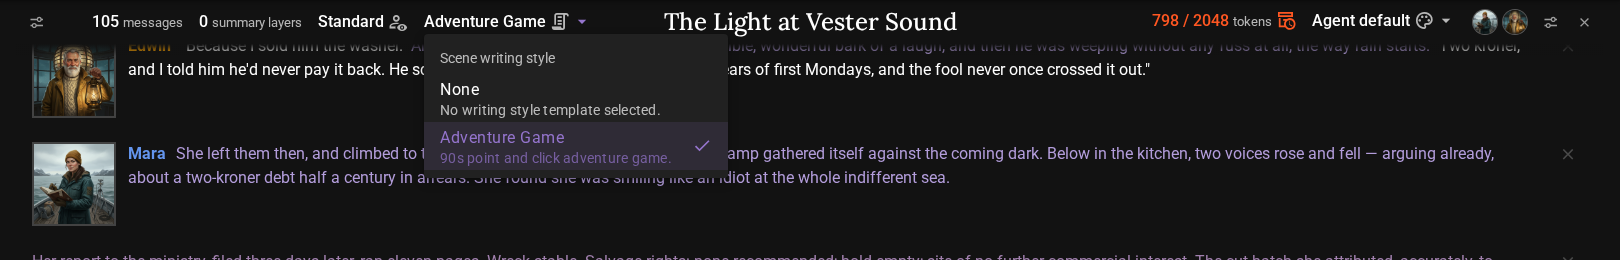
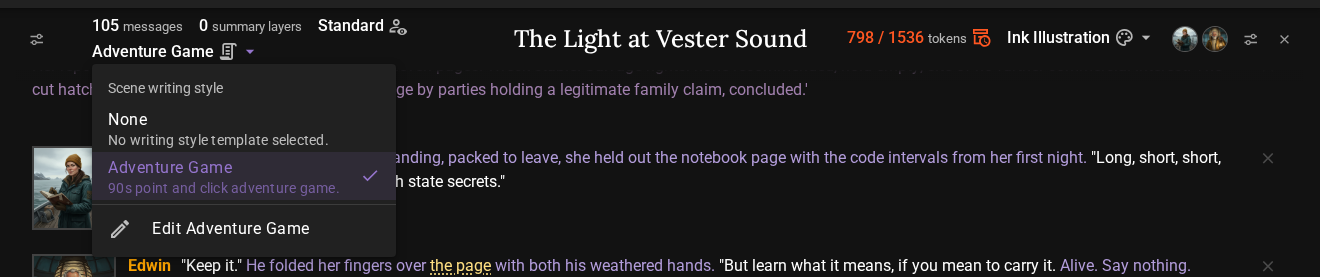
Scene header: Edit {name} entry in the writing style and visual style menus (#830)
* feat(scene-header): add Edit {name} entry to the writing style and visual style menus

* docs(scene-header): describe the Edit entry and retake the styles menu screenshot

* fix(scene-header): keep items from showing below the sticky Edit entry, resolve the option once, test the divider

diff --git a/talemate_frontend/tests/unit/sceneHeaderWidgets.spec.js b/talemate_frontend/tests/unit/sceneHeaderWidgets.spec.js
@@ -83,6 +83,7 @@ const Menu = defineComponent({
         ]);
     },
 });
+const Divider = defineComponent({ setup: () => () => h('hr', { class: 'divider' }) });
 const ListItem = defineComponent({
     props: { title: String },
     emits: ['click'],
@@ -133,6 +134,7 @@ function mountApp(root, injections = {}, vuetify = DARK) {
     for (const [key, value] of Object.entries(provided)) app.provide(key, value);
     for (const name of ['VList', 'VListSubheader', 'VCard', 'VCardText', 'VChip', 'VIcon', 'VCheckbox', 'VCheckboxBtn']) app.component(name, Container);
     app.component('VTooltip', Tooltip);
+    app.component('VDivider', Divider);
     app.component('VMenu', Menu);
     app.component('VListItem', ListItem);
     app.component('VBtn', Button);
@@ -501,11 +503,12 @@ describe('the header style select', () => {
         },
     };
 
-    function mountSelect(current) {
+    function mountSelect(current, { id = 'writing_style', data = 'writing_style_template', source = templates, opened = vi.fn() } = {}) {
         const sent = [];
-        const entry = resolveSlotItems(['writing_style'], { scene: { name: 'x', data: { writing_style_template: current } }, templates })[0];
+        const entry = resolveSlotItems([id], { scene: { name: 'x', data: { [data]: current } }, templates: source })[0];
         mountApp(defineComponent({ setup: () => () => h(HeaderTemplateSelect, { item: entry }) }), {
             getWebsocket: () => ({ send: (frame) => sent.push(JSON.parse(frame)) }),
+            openWorldStateManager: opened,
         });
         return sent;
     }
@@ -543,9 +546,9 @@ describe('the header style select', () => {
     it('lists the templates of the settings page and marks the current one', async () => {
         mountSelect('g__cozy');
         const items = await open();
-        expect(items.map((item) => item.textContent.trim())).toEqual(['None', 'Noir', 'Cozy']);
-        expect(items.map((item) => [item.getAttribute('role'), item.getAttribute('aria-checked')]))
-            .toEqual([['menuitemradio', 'false'], ['menuitemradio', 'false'], ['menuitemradio', 'true']]);
+        const choices = items.filter((item) => item.getAttribute('role') === 'menuitemradio');
+        expect(choices.map((item) => item.textContent.trim())).toEqual(['None', 'Noir', 'Cozy']);
+        expect(choices.map((item) => item.getAttribute('aria-checked'))).toEqual(['false', 'false', 'true']);
     });
 
     it('sends only the style setting for a new pick, and nothing for the current one', async () => {
@@ -559,5 +562,71 @@ describe('the header style select', () => {
             { type: 'world_state_manager', action: 'update_scene_settings', writing_style_template: 'g__cozy' },
             { type: 'world_state_manager', action: 'update_scene_settings', writing_style_template: null },
         ]);
+    });
+
+    describe('the edit entry', () => {
+        const visualTemplates = {
+            by_type: {
+                visual_style: {
+                    ink: { group: 'g', uid: 'ink', name: 'Ink Wash', description: 'Brush.', visual_type: 'STYLE' },
+                },
+            },
+        };
+        const visual = { id: 'visual_style', data: 'visual_style_template', source: visualTemplates };
+
+        it('follows the choices behind a divider, named for the selected template, and is not a radio item', async () => {
+            mountSelect('g__noir');
+            const items = await open();
+            const entry = items[items.length - 1];
+            expect(entry.textContent.trim()).toBe('Edit Noir');
+            expect(entry.getAttribute('role')).toBe('menuitem');
+            expect(entry.hasAttribute('aria-checked')).toBe(false);
+            expect(entry.getAttribute('prepend-icon')).toBe('mdi-pencil-outline');
+            expect(entry.previousElementSibling.classList.contains('divider')).toBe(true);
+            expect(entry.closest('.scene-header-select__edit')).not.toBeNull();
+            expect(host.querySelectorAll('.menu-content [role="menuitemradio"]')).toHaveLength(3);
+        });
+
+        it('is the last entry of a menu with a long list, once', async () => {
+            const many = Object.fromEntries(Array.from({ length: 30 }, (_, i) => {
+                const uid = `s${String(i).padStart(2, '0')}`;
+                return [uid, { group: 'g', uid, name: `Style ${i}`, description: '', visual_type: 'STYLE' }];
+            }));
+            mountSelect('g__s29', { ...visual, source: { by_type: { visual_style: many } } });
+            const items = await open();
+            expect(items.filter((item) => item.getAttribute('role') === 'menuitemradio')).toHaveLength(31);
+            expect(items.filter((item) => item.getAttribute('role') === 'menuitem').map((item) => item.textContent.trim())).toEqual(['Edit Style 29']);
+            expect(items[items.length - 1].getAttribute('role')).toBe('menuitem');
+        });
+
+        it('opens the selected template in the Templates tab and sends no setting', async () => {
+            const opened = vi.fn();
+            const sent = mountSelect('g__cozy', { opened });
+            const items = await open();
+            items[items.length - 1].click();
+            expect(opened).toHaveBeenCalledExactlyOnceWith('templates', 'g__cozy');
+            expect(sent).toEqual([]);
+        });
+
+        it('does the same for the visual style', async () => {
+            const opened = vi.fn();
+            mountSelect('g__ink', { ...visual, opened });
+            const items = await open();
+            expect(items[items.length - 1].textContent.trim()).toBe('Edit Ink Wash');
+            items[items.length - 1].click();
+            expect(opened).toHaveBeenCalledExactlyOnceWith('templates', 'g__ink');
+        });
+
+        it.each([
+            ['no style is selected', null, {}],
+            ['the selected template is missing from the list', 'g__gone', {}],
+            ['the template list has not arrived', 'g__noir', { source: {} }],
+            ['no visual style is selected', null, visual],
+            ['the selected visual template is not a style', 'g__ink', { ...visual, source: { by_type: { visual_style: { ink: { group: 'g', uid: 'ink', name: 'Ink', visual_type: 'PROMPT' } } } } }],
+        ])('is absent when %s', async (_, current, options) => {
+            mountSelect(current, options);
+            const items = await open();
+            expect(items.map((item) => item.textContent.trim()).some((text) => text.startsWith('Edit '))).toBe(false);
+        });
     });
 });

diff --git a/talemate_frontend/src/components/SceneHeaderTemplateSelect.vue b/talemate_frontend/src/components/SceneHeaderTemplateSelect.vue
@@ -34,6 +34,15 @@
                     <v-icon v-if="option.value === item.selected" size="small" color="primary">mdi-check</v-icon>
                 </template>
             </v-list-item>
+            <div v-if="item.selectedOption" class="scene-header-select__edit">
+                <v-divider class="mb-1" />
+                <v-list-item
+                    :title="`Edit ${item.selectedOption.title}`"
+                    prepend-icon="mdi-pencil-outline"
+                    role="menuitem"
+                    @click="edit"
+                />
+            </div>
         </v-list>
     </v-menu>
 </template>
@@ -44,12 +53,15 @@ import { sceneSettingPayload } from '@/utils/sceneSettings';
 
 export default {
     name: 'SceneHeaderTemplateSelect',
-    inject: ['getWebsocket'],
+    inject: ['getWebsocket', 'openWorldStateManager'],
     props: {
         item: { type: Object, required: true },
     },
     methods: {
         mergeProps,
+        edit() {
+            this.openWorldStateManager('templates', this.item.selected);
+        },
         choose(value) {
             if (value === this.item.selected) return;
             this.getWebsocket().send(JSON.stringify(sceneSettingPayload(this.item.setting, value)));
@@ -77,6 +89,15 @@ export default {
 .scene-header-select:focus-visible {
     outline: 2px solid rgb(var(--v-theme-primary));
     outline-offset: 2px;
+}
+
+/* offsets of -8px: the list pads 8px at its bottom, and items scroll into it */
+.scene-header-select__edit {
+    position: sticky;
+    bottom: -8px;
+    margin-bottom: -8px;
+    padding: 4px 0 8px;
+    background: rgb(var(--v-theme-surface));
 }
 
 /* the same type as the text items of the header */

diff --git a/talemate_frontend/src/utils/sceneHeaderItems.js b/talemate_frontend/src/utils/sceneHeaderItems.js
@@ -182,13 +182,13 @@ function unavailable(item, label, tooltip) {
 // settings page; both read as the unset option.
 function templateSelect({ setting, label, icon, title, templates, options, current, unset, tooltip }) {
     const selected = current || null;
-    const base = { widget: 'template_select', setting, title, options, selected, label, icon, muted: false };
+    const base = { widget: 'template_select', setting, title, options, selected, selectedOption: null, label, icon, muted: false };
     if (selected === null) {
         return { ...base, value: unset.value, tooltip: unset.tooltip, muted: unset.muted };
     }
     const option = options.find((candidate) => candidate.value === selected);
     if (option) {
-        return { ...base, value: option.title, tooltip: tooltip(option.title) };
+        return { ...base, selectedOption: option, value: option.title, tooltip: tooltip(option.title) };
     }
     if (!templates?.by_type) {
         return { ...base, value: null, tooltip: `${label}: waiting for the template list.`, muted: true };

diff --git a/talemate_frontend/tests/unit/sceneHeaderItems.spec.js b/talemate_frontend/tests/unit/sceneHeaderItems.spec.js
@@ -302,6 +302,14 @@ describe("writing style and visual style items", () => {
         expect(read("visual_style", { visual_style_template: "g__ink" }).tooltip).toMatch(/^Visual style: Ink wash\./);
     });
 
+    it("resolves the selected option once, and only for a template that is in the list", () => {
+        const noir = read("writing_style", { writing_style_template: "g__noir" });
+        expect(noir.selectedOption).toBe(noir.options.find((option) => option.value === "g__noir"));
+        expect(read("writing_style", { writing_style_template: null }).selectedOption).toBeNull();
+        expect(read("writing_style", { writing_style_template: "g__gone" }).selectedOption).toBeNull();
+        expect(read("writing_style", { writing_style_template: "g__gone" }, {}).selectedOption).toBeNull();
+    });
+
     it("takes its icon and name from the item definition, the ones the item menu shows", () => {
         for (const id of ["writing_style", "visual_style"]) {
             const item = findSceneHeaderItem(id);

diff --git a/docs/user-guide/scene-header.md b/docs/user-guide/scene-header.md
@@ -64,15 +64,19 @@ The story's character knowledge mode: **Standard** or **Perspectives** (Characte
 
 ##### :material-script-text-outline: Writing style
 
-![Scene header with the knowledge mode, writing style and visual style items, and the writing style menu open](/talemate/img/0.40.0/scene-header-styles.png)
+![Scene header with the knowledge mode, writing style and visual style items, and the writing style menu open with its Edit entry](/talemate/img/0.40.0/scene-header-styles.png)
 
 The scene's writing style template by name, followed by the :material-script-text-outline: icon, for example **Adventure Game** :material-script-text-outline:. Click it for a menu of your writing style templates and pick another one, or **None** for no template. It is the same setting as **Writing Style** in **World Editor > Scene > Settings**, so a change in one place shows in the other. Like any change in the scene settings, it marks the scene as unsaved.
+
+When a template is selected, the menu ends with **Edit {name}** :material-pencil-outline: below a divider, for example **Edit Adventure Game**. It is not one of the choices: it opens that template in the **Templates** tab, ready to edit. With **None** selected, or with a **Missing template**, the menu has no such entry.
 
 A scene without a writing style reads **None**, dimmed. When the scene names a template that is no longer in your template list, the item reads **Missing template** at full strength, not dimmed; pick another one from the menu.
 
 ##### :material-palette-outline: Visual style
 
 The scene's visual art style template by name, followed by the :material-palette-outline: icon: the style new images of this scene are made in. Click it to pick another one from your visual style templates, or **Use Agent Default** to follow the Visualizer's own art style; the item then reads **Agent default**. It is the same setting as **Visual Art Style** in **World Editor > Scene > Settings**.
+
+The menu ends with **Edit {name}** :material-pencil-outline: for the selected style, the same entry as in the writing style menu. With **Use Agent Default** selected, it is absent.
 
 For example, when a noir story moves to a sunny coast, pick a watercolour style from the header before you generate the next scene image.
 
